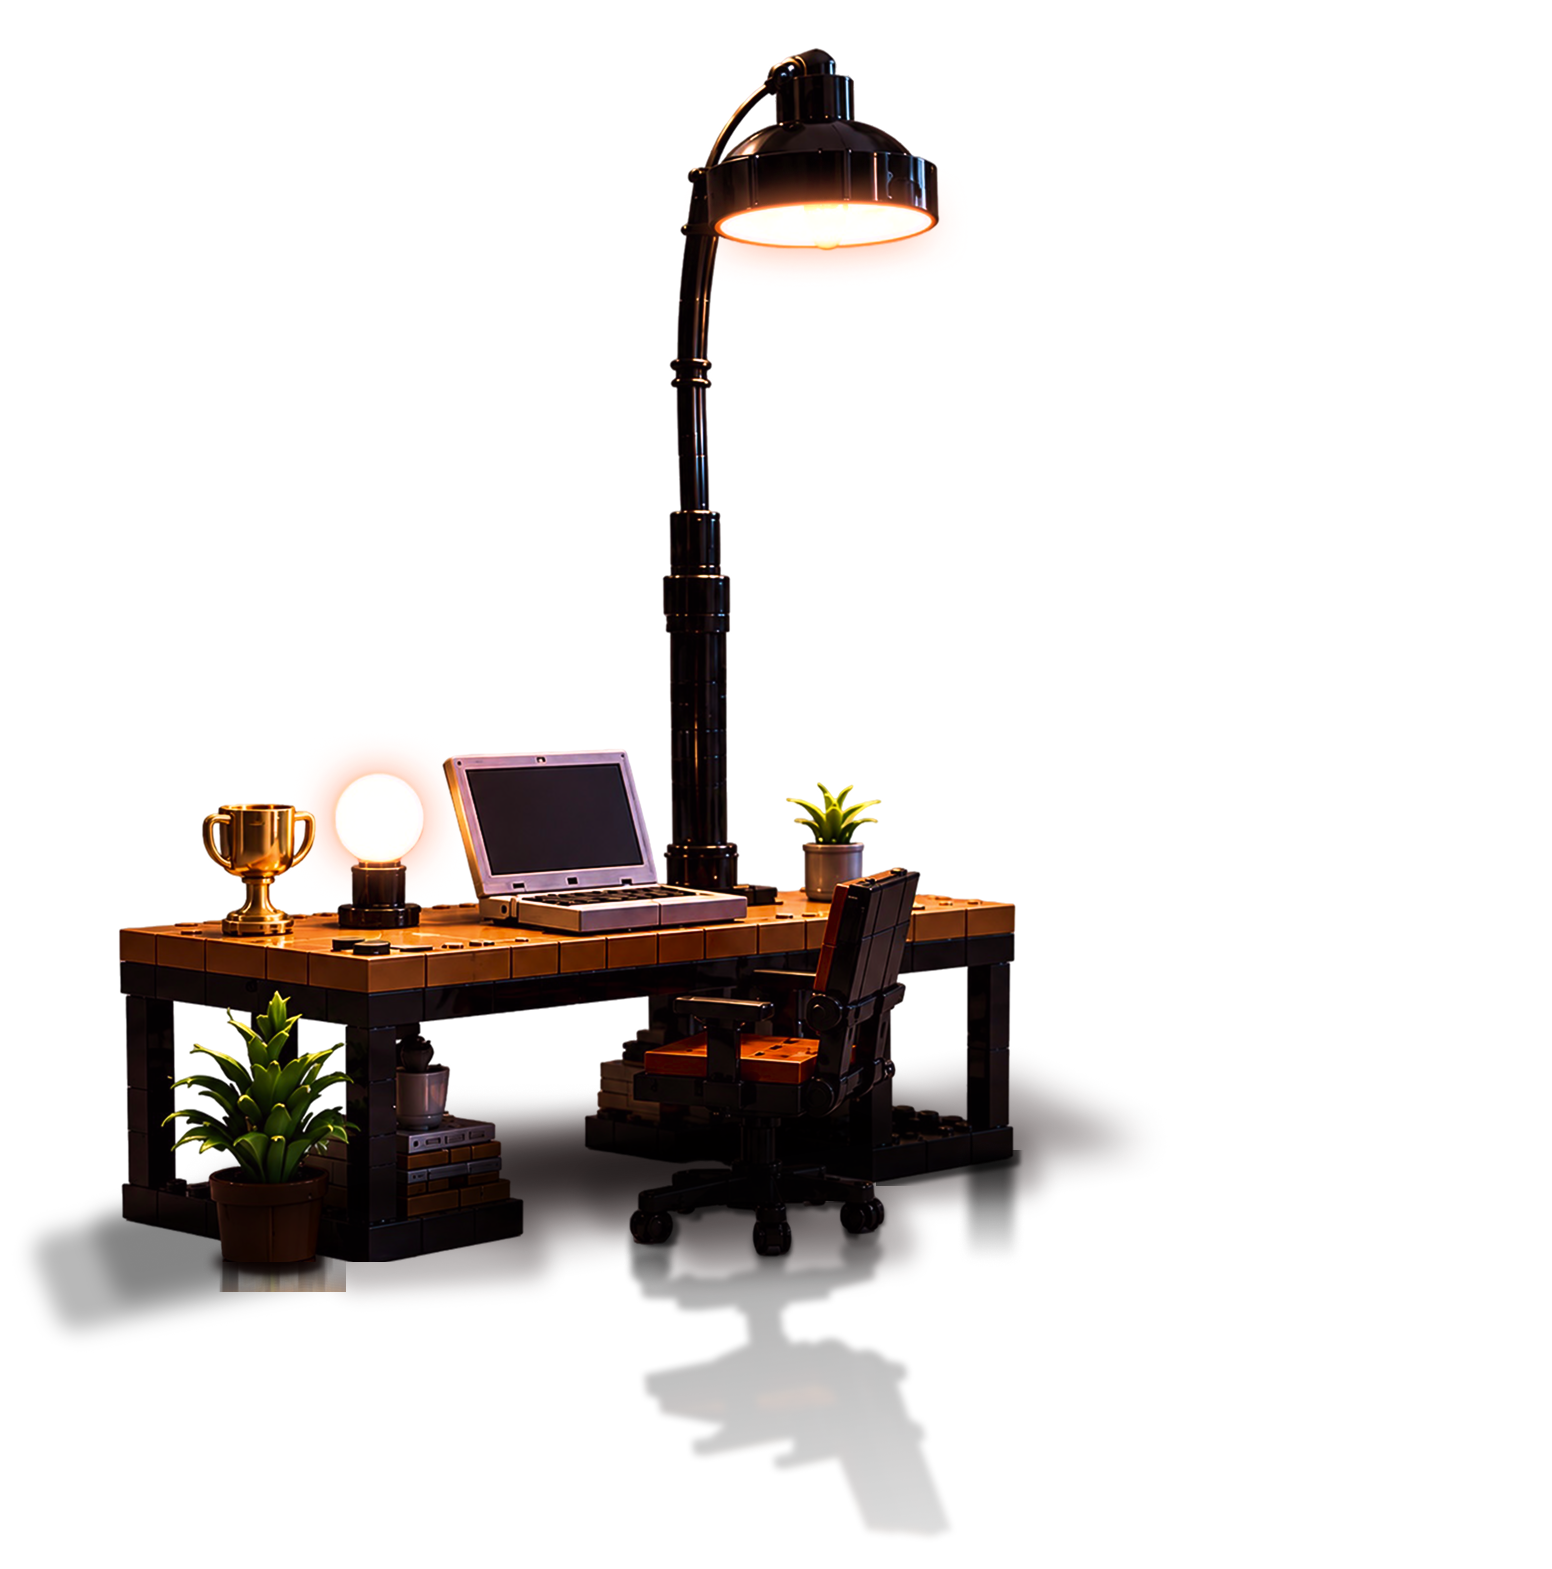
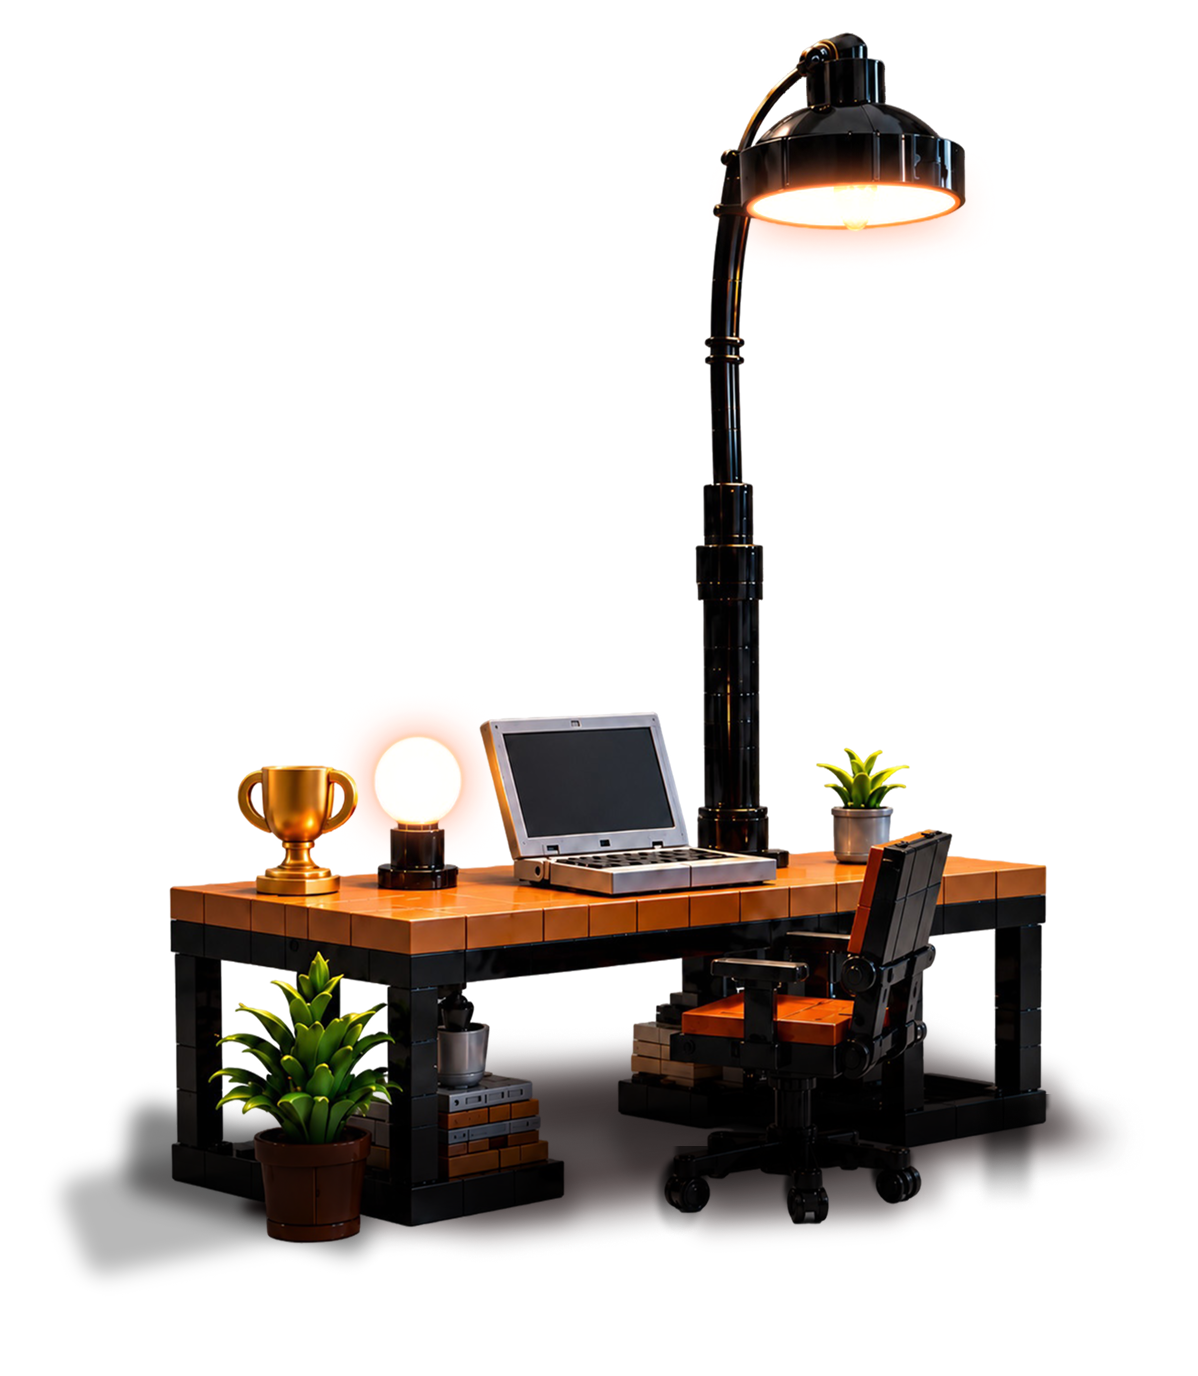
final v2

diff --git a/src/style.css b/src/style.css
@@ -134,7 +134,7 @@ body {
 
 .scene-decoration--left-center {
   top: 8%;
-  left: 0;
+  left: -2%;
   z-index: 2;
   width: 35.2871%;
   aspect-ratio: 1187 / 2235;
@@ -158,7 +158,7 @@ body {
   top: 12px;
   left: 1.84%;
   z-index: 3;
-  width: 125.32%;
+  width: 100%;
 }
 
 .scene-left-center__main img {
@@ -167,13 +167,21 @@ body {
   height: auto;
 }
 .scene-left-center__mirror {
+    top: 43.04%;
+    left: 13%;
+    z-index: 1;
+    width: 87.71%;
+    /* opacity: 0.67; */
+    /* mix-blend-mode: darken; */
+}
+/* .scene-left-center__mirror {
   top: 51.04%;
   left: 22%;
   z-index: 1;
   width: 66.71%;
   /* opacity: 0.67; */
   /* mix-blend-mode: darken; */
-}
+} */
 /* .scene-left-center__mirror {
   top: 54.04%;
   left: 20%;
@@ -197,12 +205,25 @@ body {
 }
 
 .scene-left-center__light img {
-  display: block;
+  display: none;
   width: 100%;
   height: auto;
 }
-
 .scene-decoration--right-center {
+    top: 69%;
+    right: 2%;
+    z-index: 2;
+    width: 31.2368%;
+    aspect-ratio: 1078 / 863;
+    transform: translate3d(
+      var(--scene-center-parallax-x),
+      var(--scene-center-parallax-y),
+      0
+    )
+    translateY(-50%);
+    will-change: transform;
+}
+/* .scene-decoration--right-center {
   top: 69%;
   right: 0;
   z-index: 2;
@@ -215,7 +236,7 @@ body {
     )
     translateY(-50%);
   will-change: transform;
-}
+} */
 
 .scene-right-center__layer {
   position: absolute;
@@ -243,7 +264,7 @@ body {
 
 .scene-decoration--left-bottom {
   bottom: -22%;
-  left: -12%;
+  left: -10.5%;
   z-index: 3;
   width: 42.7715%;
   transform: translate3d(
@@ -253,8 +274,19 @@ body {
   );
   will-change: transform;
 }
-
 .scene-decoration--right-bottom {
+    right: -13%;
+    bottom: -16%;
+    z-index: 3;
+    width: 42.6483%;
+    transform: translate3d(
+    var(--scene-bottom-parallax-x),
+    var(--scene-bottom-parallax-y),
+    0
+  );
+    will-change: transform;
+}
+/* .scene-decoration--right-bottom {
   right: -14%;
   bottom: -13%;
   z-index: 3;
@@ -265,7 +297,7 @@ body {
     0
   );
   will-change: transform;
-}
+} */
 
 #app {
   position: relative;
@@ -1376,13 +1408,18 @@ body.is-loading-preview #loading-screen {
       0
     );
   }
-
-  .scene-decoration--left-center {
+.scene-decoration--left-center {
+    top: auto;
+    bottom: -99px;
+    left: -91px;
+    width: 364px;
+}
+  /* .scene-decoration--left-center {
     top: auto;
     bottom: -30px;
     left: -105px;
     width: 364px;
-  }
+  } */
 
   .scene-left-center__mirror {
     display: none;
@@ -1571,12 +1608,16 @@ body.is-loading-preview #loading-screen {
     height: 223px;
   }
 
-  .scene-decoration--left-center {
+  /* .scene-decoration--left-center {
     bottom: -24px;
     left: clamp(-160px, calc(-129px - (420px - 100vw) * 2.516667), -129px);
     width: 330px;
-  }
-
+  } */
+.scene-decoration--left-center {
+    bottom: -87px;
+    left: clamp(-128px, calc(-129px - (420px - 100vw) * 2.516667), -129px);
+    width: 330px;
+}
   .scene-decoration--right-center {
     right: clamp(-145px, calc(-114px - (420px - 100vw) * 0.516667), -114px);
     bottom: 93px;
